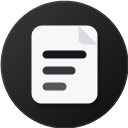
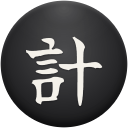
Bump extension version to 0.1.8
Update the extension icon and repackage the VSIX release.

diff --git a/README.md b/README.md
@@ -73,7 +73,7 @@ ext install odangoo.otak-filemeter
 ```bash
 npm install
 npm run package
-code --install-extension otak-filemeter-0.1.7.vsix
+code --install-extension otak-filemeter-0.1.8.vsix
 ```
 
 Reload VS Code afterwards if the Explorer was already open.

diff --git a/CHANGELOG.md b/CHANGELOG.md
@@ -1,5 +1,10 @@
 # Change Log
 
+## [0.1.8] - 2026-06-30
+
+### Changed
+- Updated the extension icon and repackaged the release.
+
 ## [0.1.7] - 2026-06-30
 
 ### Changed
